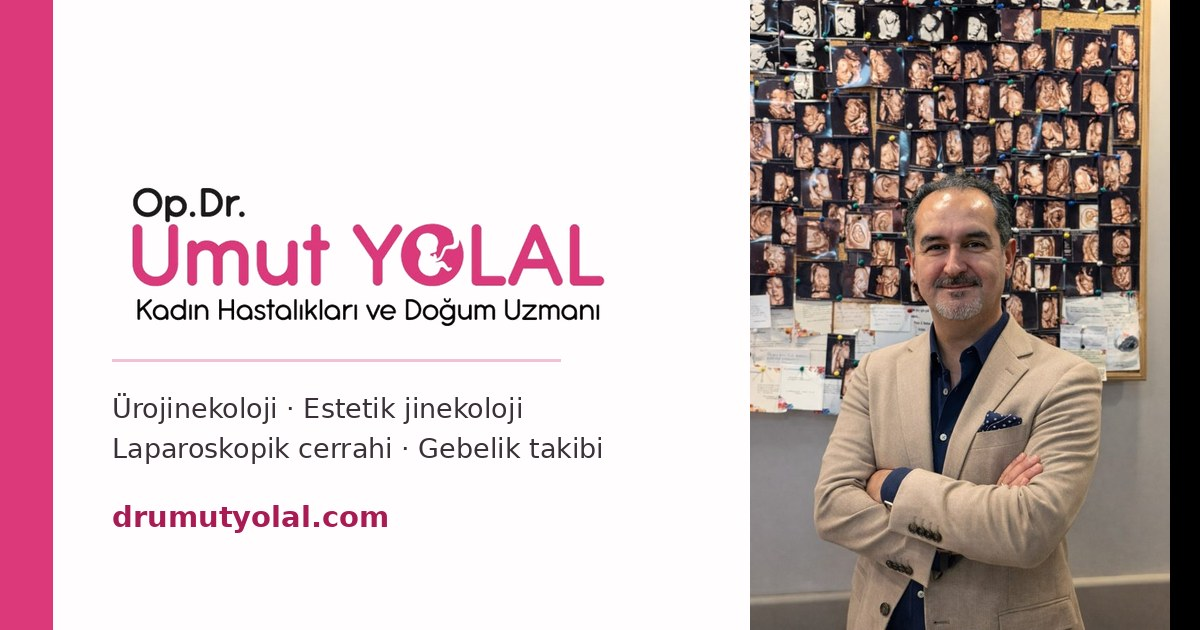
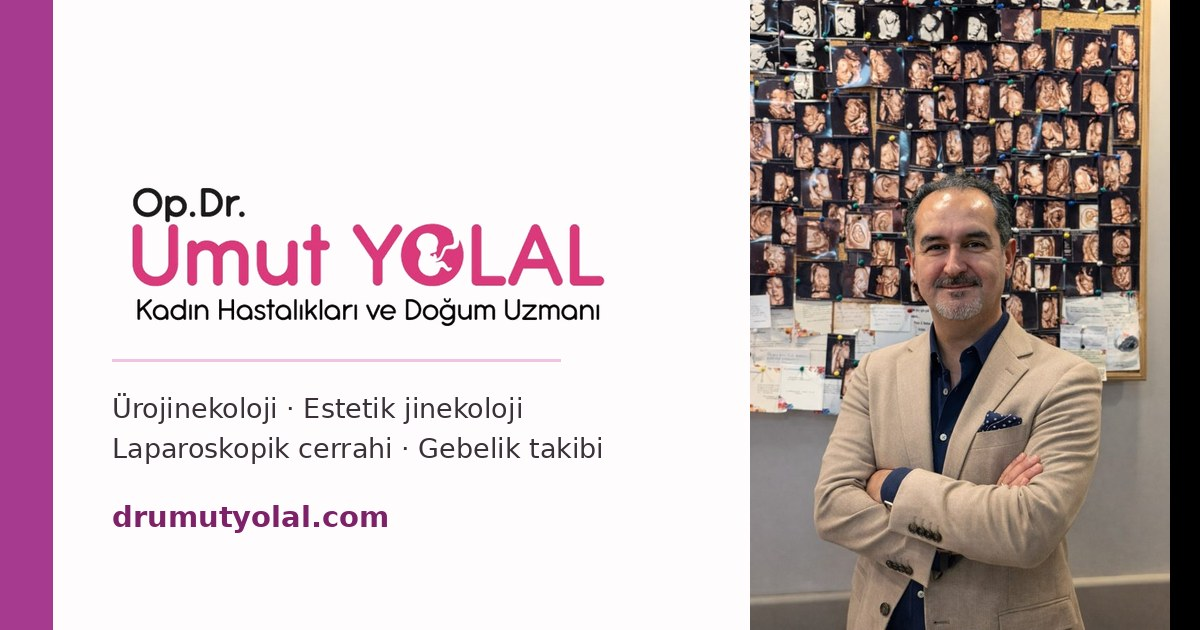
Add files via upload

Changed region(s): [[0.0, 0.0, 0.0617, 1.0], [0.0925, 0.8143, 0.3392, 0.8444]]

diff --git a/uzmanliklar/dort-boyutlu-ultrason.html b/uzmanliklar/dort-boyutlu-ultrason.html
@@ -2,7 +2,7 @@
 <html lang="tr">
 <head>
 <meta charset="UTF-8">
-<meta name="theme-color" content="#dc397a">
+<meta name="theme-color" content="#a53a8f">
 <meta name="viewport" content="width=device-width, initial-scale=1.0">
 <title>3B / 4B Boyutlu Ultrason | Op. Dr. Umut Yolal</title>
 <meta name="description" content="3 boyutlu (3B) ve 4 boyutlu (4B) ultrasonografi ile bebeğin gerçek zamanlı görüntülenmesi ve ayrıntılı gelişim değerlendirmesi.">
@@ -26,7 +26,7 @@
 </script>
 <link rel="preconnect" href="https://fonts.googleapis.com">
 <link href="https://fonts.googleapis.com/css2?family=Playfair+Display:wght@600;700&family=Inter:wght@400;500;600&display=swap" rel="stylesheet">
-<link rel="stylesheet" href="../css/style.css?v=20260912d">
+<link rel="stylesheet" href="../css/style.css?v=20260912e">
 <link rel="canonical" href="https://drumutyolal.com/uzmanliklar/dort-boyutlu-ultrason">
 <meta property="og:url" content="https://drumutyolal.com/uzmanliklar/dort-boyutlu-ultrason">
 <meta property="og:image" content="https://drumutyolal.com/images/og-kapak.jpg">
@@ -102,6 +102,6 @@
 </div></footer>
 <a class="float-btn float-wa" aria-label="WhatsApp ile mesaj gönder" href="https://wa.me/905454717579" target="_blank" title="WhatsApp">💬</a>
 <a class="float-btn float-tel" aria-label="Telefonla ara" href="tel:+905454717579" title="Hemen Ara">📞</a>
-<script src="../js/main.js?v=20260912d"></script>
+<script src="../js/main.js?v=20260912e"></script>
 </body>
 </html>

diff --git a/uzmanliklar/gebelik-takibi.html b/uzmanliklar/gebelik-takibi.html
@@ -2,7 +2,7 @@
 <html lang="tr">
 <head>
 <meta charset="UTF-8">
-<meta name="theme-color" content="#dc397a">
+<meta name="theme-color" content="#a53a8f">
 <meta name="viewport" content="width=device-width, initial-scale=1.0">
 <title>Hafta Hafta Gebelik Takibi | Op. Dr. Umut Yolal</title>
 <meta name="description" content="Gebeliğin ilk haftasından doğuma kadar düzenli gebelik takibi. Ultrason, tarama testleri ve anne-bebek sağlığının yakın izlemi.">
@@ -26,7 +26,7 @@
 </script>
 <link rel="preconnect" href="https://fonts.googleapis.com">
 <link href="https://fonts.googleapis.com/css2?family=Playfair+Display:wght@600;700&family=Inter:wght@400;500;600&display=swap" rel="stylesheet">
-<link rel="stylesheet" href="../css/style.css?v=20260912d">
+<link rel="stylesheet" href="../css/style.css?v=20260912e">
 <link rel="canonical" href="https://drumutyolal.com/uzmanliklar/gebelik-takibi">
 <meta property="og:url" content="https://drumutyolal.com/uzmanliklar/gebelik-takibi">
 <meta property="og:image" content="https://drumutyolal.com/images/og-kapak.jpg">
@@ -102,6 +102,6 @@
 </div></footer>
 <a class="float-btn float-wa" aria-label="WhatsApp ile mesaj gönder" href="https://wa.me/905454717579" target="_blank" title="WhatsApp">💬</a>
 <a class="float-btn float-tel" aria-label="Telefonla ara" href="tel:+905454717579" title="Hemen Ara">📞</a>
-<script src="../js/main.js?v=20260912d"></script>
+<script src="../js/main.js?v=20260912e"></script>
 </body>
 </html>

diff --git a/uzmanliklar/hpv-genital-sigil-tedavisi.html b/uzmanliklar/hpv-genital-sigil-tedavisi.html
@@ -2,7 +2,7 @@
 <html lang="tr">
 <head>
 <meta charset="UTF-8">
-<meta name="theme-color" content="#dc397a">
+<meta name="theme-color" content="#a53a8f">
 <meta name="viewport" content="width=device-width, initial-scale=1.0">
 <title>Genital Siğil (Kondilom) Tedavisi | Op. Dr. Umut Yolal</title>
 <meta name="description" content="HPV enfeksiyonu, genital siğil tedavisi, HPV aşısı ve rahim ağzı kanseri taraması hakkında bilgi.">
@@ -26,7 +26,7 @@
 </script>
 <link rel="preconnect" href="https://fonts.googleapis.com">
 <link href="https://fonts.googleapis.com/css2?family=Playfair+Display:wght@600;700&family=Inter:wght@400;500;600&display=swap" rel="stylesheet">
-<link rel="stylesheet" href="../css/style.css?v=20260912d">
+<link rel="stylesheet" href="../css/style.css?v=20260912e">
 <link rel="canonical" href="https://drumutyolal.com/uzmanliklar/hpv-genital-sigil-tedavisi">
 <meta property="og:url" content="https://drumutyolal.com/uzmanliklar/hpv-genital-sigil-tedavisi">
 <meta property="og:image" content="https://drumutyolal.com/images/og-kapak.jpg">
@@ -198,6 +198,6 @@
 </div></footer>
 <a class="float-btn float-wa" aria-label="WhatsApp ile mesaj gönder" href="https://wa.me/905454717579" target="_blank" title="WhatsApp">💬</a>
 <a class="float-btn float-tel" aria-label="Telefonla ara" href="tel:+905454717579" title="Hemen Ara">📞</a>
-<script src="../js/main.js?v=20260912d"></script>
+<script src="../js/main.js?v=20260912e"></script>
 </body>
 </html>

diff --git a/uzmanliklar/dogum-kontrol-yontemleri.html b/uzmanliklar/dogum-kontrol-yontemleri.html
@@ -2,7 +2,7 @@
 <html lang="tr">
 <head>
 <meta charset="UTF-8">
-<meta name="theme-color" content="#dc397a">
+<meta name="theme-color" content="#a53a8f">
 <meta name="viewport" content="width=device-width, initial-scale=1.0">
 <title>Doğum Kontrol Yöntemleri | Op. Dr. Umut Yolal</title>
 <meta name="description" content="Modern doğum kontrol yöntemleri: spiral (RİA), hormonal yöntemler, bariyer yöntemleri ve kalıcı çözümler.">
@@ -26,7 +26,7 @@
 </script>
 <link rel="preconnect" href="https://fonts.googleapis.com">
 <link href="https://fonts.googleapis.com/css2?family=Playfair+Display:wght@600;700&family=Inter:wght@400;500;600&display=swap" rel="stylesheet">
-<link rel="stylesheet" href="../css/style.css?v=20260912d">
+<link rel="stylesheet" href="../css/style.css?v=20260912e">
 <link rel="canonical" href="https://drumutyolal.com/uzmanliklar/dogum-kontrol-yontemleri">
 <meta property="og:url" content="https://drumutyolal.com/uzmanliklar/dogum-kontrol-yontemleri">
 <meta property="og:image" content="https://drumutyolal.com/images/og-kapak.jpg">
@@ -102,6 +102,6 @@
 </div></footer>
 <a class="float-btn float-wa" aria-label="WhatsApp ile mesaj gönder" href="https://wa.me/905454717579" target="_blank" title="WhatsApp">💬</a>
 <a class="float-btn float-tel" aria-label="Telefonla ara" href="tel:+905454717579" title="Hemen Ara">📞</a>
-<script src="../js/main.js?v=20260912d"></script>
+<script src="../js/main.js?v=20260912e"></script>
 </body>
 </html>

diff --git a/uzmanliklar/kisirlik-tedavisi.html b/uzmanliklar/kisirlik-tedavisi.html
@@ -2,7 +2,7 @@
 <html lang="tr">
 <head>
 <meta charset="UTF-8">
-<meta name="theme-color" content="#dc397a">
+<meta name="theme-color" content="#a53a8f">
 <meta name="viewport" content="width=device-width, initial-scale=1.0">
 <title>Kısırlık (İnfertilite) Tedavisi | Op. Dr. Umut Yolal</title>
 <meta name="description" content="Kısırlık (infertilite) nedenlerinin araştırılması, çift olarak değerlendirme ve basamaklı tedavi yaklaşımı.">
@@ -26,7 +26,7 @@
 </script>
 <link rel="preconnect" href="https://fonts.googleapis.com">
 <link href="https://fonts.googleapis.com/css2?family=Playfair+Display:wght@600;700&family=Inter:wght@400;500;600&display=swap" rel="stylesheet">
-<link rel="stylesheet" href="../css/style.css?v=20260912d">
+<link rel="stylesheet" href="../css/style.css?v=20260912e">
 <link rel="canonical" href="https://drumutyolal.com/uzmanliklar/kisirlik-tedavisi">
 <meta property="og:url" content="https://drumutyolal.com/uzmanliklar/kisirlik-tedavisi">
 <meta property="og:image" content="https://drumutyolal.com/images/og-kapak.jpg">
@@ -102,6 +102,6 @@
 </div></footer>
 <a class="float-btn float-wa" aria-label="WhatsApp ile mesaj gönder" href="https://wa.me/905454717579" target="_blank" title="WhatsApp">💬</a>
 <a class="float-btn float-tel" aria-label="Telefonla ara" href="tel:+905454717579" title="Hemen Ara">📞</a>
-<script src="../js/main.js?v=20260912d"></script>
+<script src="../js/main.js?v=20260912e"></script>
 </body>
 </html>

diff --git a/uzmanliklar/kriyoterapi-koterizasyon.html b/uzmanliklar/kriyoterapi-koterizasyon.html
@@ -2,7 +2,7 @@
 <html lang="tr">
 <head>
 <meta charset="UTF-8">
-<meta name="theme-color" content="#dc397a">
+<meta name="theme-color" content="#a53a8f">
 <meta name="viewport" content="width=device-width, initial-scale=1.0">
 <title>Kriyoterapi ve Koterizasyon | Op. Dr. Umut Yolal</title>
 <meta name="description" content="Rahim ağzı yarası (servikal erozyon) tedavisinde kriyoterapi (dondurma) ve koterizasyon (yakma) uygulamaları.">
@@ -26,7 +26,7 @@
 </script>
 <link rel="preconnect" href="https://fonts.googleapis.com">
 <link href="https://fonts.googleapis.com/css2?family=Playfair+Display:wght@600;700&family=Inter:wght@400;500;600&display=swap" rel="stylesheet">
-<link rel="stylesheet" href="../css/style.css?v=20260912d">
+<link rel="stylesheet" href="../css/style.css?v=20260912e">
 <link rel="canonical" href="https://drumutyolal.com/uzmanliklar/kriyoterapi-koterizasyon">
 <meta property="og:url" content="https://drumutyolal.com/uzmanliklar/kriyoterapi-koterizasyon">
 <meta property="og:image" content="https://drumutyolal.com/images/og-kapak.jpg">
@@ -102,6 +102,6 @@
 </div></footer>
 <a class="float-btn float-wa" aria-label="WhatsApp ile mesaj gönder" href="https://wa.me/905454717579" target="_blank" title="WhatsApp">💬</a>
 <a class="float-btn float-tel" aria-label="Telefonla ara" href="tel:+905454717579" title="Hemen Ara">📞</a>
-<script src="../js/main.js?v=20260912d"></script>
+<script src="../js/main.js?v=20260912e"></script>
 </body>
 </html>

diff --git a/uzmanliklar/idrar-kacirma-tedavisi.html b/uzmanliklar/idrar-kacirma-tedavisi.html
@@ -2,7 +2,7 @@
 <html lang="tr">
 <head>
 <meta charset="UTF-8">
-<meta name="theme-color" content="#dc397a">
+<meta name="theme-color" content="#a53a8f">
 <meta name="viewport" content="width=device-width, initial-scale=1.0">
 <title>İdrar Kaçırma Tedavisi | Op. Dr. Umut Yolal</title>
 <meta name="description" content="Stres ve sıkışma tipi idrar kaçırmada tanı, pelvik taban rehabilitasyonu, ilaç ve cerrahi tedavi seçenekleri.">
@@ -26,7 +26,7 @@
 </script>
 <link rel="preconnect" href="https://fonts.googleapis.com">
 <link href="https://fonts.googleapis.com/css2?family=Playfair+Display:wght@600;700&family=Inter:wght@400;500;600&display=swap" rel="stylesheet">
-<link rel="stylesheet" href="../css/style.css?v=20260912d">
+<link rel="stylesheet" href="../css/style.css?v=20260912e">
 <link rel="canonical" href="https://drumutyolal.com/uzmanliklar/idrar-kacirma-tedavisi">
 <meta property="og:url" content="https://drumutyolal.com/uzmanliklar/idrar-kacirma-tedavisi">
 <meta property="og:image" content="https://drumutyolal.com/images/og-kapak.jpg">
@@ -206,6 +206,6 @@
 </div></footer>
 <a class="float-btn float-wa" aria-label="WhatsApp ile mesaj gönder" href="https://wa.me/905454717579" target="_blank" title="WhatsApp">💬</a>
 <a class="float-btn float-tel" aria-label="Telefonla ara" href="tel:+905454717579" title="Hemen Ara">📞</a>
-<script src="../js/main.js?v=20260912d"></script>
+<script src="../js/main.js?v=20260912e"></script>
 </body>
 </html>

diff --git a/uzmanliklar/yumurta-catlatma-tedavisi.html b/uzmanliklar/yumurta-catlatma-tedavisi.html
@@ -2,7 +2,7 @@
 <html lang="tr">
 <head>
 <meta charset="UTF-8">
-<meta name="theme-color" content="#dc397a">
+<meta name="theme-color" content="#a53a8f">
 <meta name="viewport" content="width=device-width, initial-scale=1.0">
 <title>Yumurta Çatlatma Tedavisi | Op. Dr. Umut Yolal</title>
 <meta name="description" content="Ovülasyon indüksiyonu (yumurta geliştirme ve çatlatma) tedavisi ile gebelik şansının artırılması.">
@@ -26,7 +26,7 @@
 </script>
 <link rel="preconnect" href="https://fonts.googleapis.com">
 <link href="https://fonts.googleapis.com/css2?family=Playfair+Display:wght@600;700&family=Inter:wght@400;500;600&display=swap" rel="stylesheet">
-<link rel="stylesheet" href="../css/style.css?v=20260912d">
+<link rel="stylesheet" href="../css/style.css?v=20260912e">
 <link rel="canonical" href="https://drumutyolal.com/uzmanliklar/yumurta-catlatma-tedavisi">
 <meta property="og:url" content="https://drumutyolal.com/uzmanliklar/yumurta-catlatma-tedavisi">
 <meta property="og:image" content="https://drumutyolal.com/images/og-kapak.jpg">
@@ -102,6 +102,6 @@
 </div></footer>
 <a class="float-btn float-wa" aria-label="WhatsApp ile mesaj gönder" href="https://wa.me/905454717579" target="_blank" title="WhatsApp">💬</a>
 <a class="float-btn float-tel" aria-label="Telefonla ara" href="tel:+905454717579" title="Hemen Ara">📞</a>
-<script src="../js/main.js?v=20260912d"></script>
+<script src="../js/main.js?v=20260912e"></script>
 </body>
 </html>

diff --git a/uzmanliklar/nipt-fetal-dna-testi.html b/uzmanliklar/nipt-fetal-dna-testi.html
@@ -2,7 +2,7 @@
 <html lang="tr">
 <head>
 <meta charset="UTF-8">
-<meta name="theme-color" content="#dc397a">
+<meta name="theme-color" content="#a53a8f">
 <meta name="viewport" content="width=device-width, initial-scale=1.0">
 <title>NİPT – Fetal DNA Testi | Op. Dr. Umut Yolal</title>
 <meta name="description" content="NİPT (Fetal DNA testi): anne kanından Down sendromu ve kromozom anomalilerinin yüksek doğrulukla taranması.">
@@ -26,7 +26,7 @@
 </script>
 <link rel="preconnect" href="https://fonts.googleapis.com">
 <link href="https://fonts.googleapis.com/css2?family=Playfair+Display:wght@600;700&family=Inter:wght@400;500;600&display=swap" rel="stylesheet">
-<link rel="stylesheet" href="../css/style.css?v=20260912d">
+<link rel="stylesheet" href="../css/style.css?v=20260912e">
 <link rel="canonical" href="https://drumutyolal.com/uzmanliklar/nipt-fetal-dna-testi">
 <meta property="og:url" content="https://drumutyolal.com/uzmanliklar/nipt-fetal-dna-testi">
 <meta property="og:image" content="https://drumutyolal.com/images/og-kapak.jpg">
@@ -102,6 +102,6 @@
 </div></footer>
 <a class="float-btn float-wa" aria-label="WhatsApp ile mesaj gönder" href="https://wa.me/905454717579" target="_blank" title="WhatsApp">💬</a>
 <a class="float-btn float-tel" aria-label="Telefonla ara" href="tel:+905454717579" title="Hemen Ara">📞</a>
-<script src="../js/main.js?v=20260912d"></script>
+<script src="../js/main.js?v=20260912e"></script>
 </body>
 </html>

diff --git a/uzmanliklar/kolposkopi-leep.html b/uzmanliklar/kolposkopi-leep.html
@@ -2,7 +2,7 @@
 <html lang="tr">
 <head>
 <meta charset="UTF-8">
-<meta name="theme-color" content="#dc397a">
+<meta name="theme-color" content="#a53a8f">
 <meta name="viewport" content="width=device-width, initial-scale=1.0">
 <title>Kolposkopi ve LEEP | Op. Dr. Umut Yolal</title>
 <meta name="description" content="Anormal smear sonuçlarında kolposkopi ile ayrıntılı inceleme ve LEEP ile rahim ağzındaki anormal hücrelerin tedavisi.">
@@ -26,7 +26,7 @@
 </script>
 <link rel="preconnect" href="https://fonts.googleapis.com">
 <link href="https://fonts.googleapis.com/css2?family=Playfair+Display:wght@600;700&family=Inter:wght@400;500;600&display=swap" rel="stylesheet">
-<link rel="stylesheet" href="../css/style.css?v=20260912d">
+<link rel="stylesheet" href="../css/style.css?v=20260912e">
 <link rel="canonical" href="https://drumutyolal.com/uzmanliklar/kolposkopi-leep">
 <meta property="og:url" content="https://drumutyolal.com/uzmanliklar/kolposkopi-leep">
 <meta property="og:image" content="https://drumutyolal.com/images/og-kapak.jpg">
@@ -202,6 +202,6 @@
 </div></footer>
 <a class="float-btn float-wa" aria-label="WhatsApp ile mesaj gönder" href="https://wa.me/905454717579" target="_blank" title="WhatsApp">💬</a>
 <a class="float-btn float-tel" aria-label="Telefonla ara" href="tel:+905454717579" title="Hemen Ara">📞</a>
-<script src="../js/main.js?v=20260912d"></script>
+<script src="../js/main.js?v=20260912e"></script>
 </body>
 </html>

diff --git a/uzmanliklar/labioplasti.html b/uzmanliklar/labioplasti.html
@@ -2,7 +2,7 @@
 <html lang="tr">
 <head>
 <meta charset="UTF-8">
-<meta name="theme-color" content="#dc397a">
+<meta name="theme-color" content="#a53a8f">
 <meta name="viewport" content="width=device-width, initial-scale=1.0">
 <title>Labioplasti | Op. Dr. Umut Yolal</title>
 <meta name="description" content="Labioplasti (iç dudak estetiği): kimlere uygulanır, cerrahi teknikler, iyileşme süreci, işlem sonrası bakım ve sık sorulan sorular.">
@@ -26,7 +26,7 @@
 </script>
 <link rel="preconnect" href="https://fonts.googleapis.com">
 <link href="https://fonts.googleapis.com/css2?family=Playfair+Display:wght@600;700&family=Inter:wght@400;500;600&display=swap" rel="stylesheet">
-<link rel="stylesheet" href="../css/style.css?v=20260912d">
+<link rel="stylesheet" href="../css/style.css?v=20260912e">
 <link rel="canonical" href="https://drumutyolal.com/uzmanliklar/labioplasti">
 <meta property="og:url" content="https://drumutyolal.com/uzmanliklar/labioplasti">
 <meta property="og:image" content="https://drumutyolal.com/images/og-kapak.jpg">
@@ -269,6 +269,6 @@
 </div></footer>
 <a class="float-btn float-wa" aria-label="WhatsApp ile mesaj gönder" href="https://wa.me/905454717579" target="_blank" title="WhatsApp">💬</a>
 <a class="float-btn float-tel" aria-label="Telefonla ara" href="tel:+905454717579" title="Hemen Ara">📞</a>
-<script src="../js/main.js?v=20260912d"></script>
+<script src="../js/main.js?v=20260912e"></script>
 </body>
 </html>

diff --git a/uzmanliklar/rahim-sarkmasi-tedavisi.html b/uzmanliklar/rahim-sarkmasi-tedavisi.html
@@ -2,7 +2,7 @@
 <html lang="tr">
 <head>
 <meta charset="UTF-8">
-<meta name="theme-color" content="#dc397a">
+<meta name="theme-color" content="#a53a8f">
 <meta name="viewport" content="width=device-width, initial-scale=1.0">
 <title>Rahim Sarkması Tedavisi | Op. Dr. Umut Yolal</title>
 <meta name="description" content="Pelvik organ sarkmalarında (rahim, mesane, bağırsak sarkması) tanı ve cerrahi tedavi seçenekleri.">
@@ -26,7 +26,7 @@
 </script>
 <link rel="preconnect" href="https://fonts.googleapis.com">
 <link href="https://fonts.googleapis.com/css2?family=Playfair+Display:wght@600;700&family=Inter:wght@400;500;600&display=swap" rel="stylesheet">
-<link rel="stylesheet" href="../css/style.css?v=20260912d">
+<link rel="stylesheet" href="../css/style.css?v=20260912e">
 <link rel="canonical" href="https://drumutyolal.com/uzmanliklar/rahim-sarkmasi-tedavisi">
 <meta property="og:url" content="https://drumutyolal.com/uzmanliklar/rahim-sarkmasi-tedavisi">
 <meta property="og:image" content="https://drumutyolal.com/images/og-kapak.jpg">
@@ -194,6 +194,6 @@
 </div></footer>
 <a class="float-btn float-wa" aria-label="WhatsApp ile mesaj gönder" href="https://wa.me/905454717579" target="_blank" title="WhatsApp">💬</a>
 <a class="float-btn float-tel" aria-label="Telefonla ara" href="tel:+905454717579" title="Hemen Ara">📞</a>
-<script src="../js/main.js?v=20260912d"></script>
+<script src="../js/main.js?v=20260912e"></script>
 </body>
 </html>
